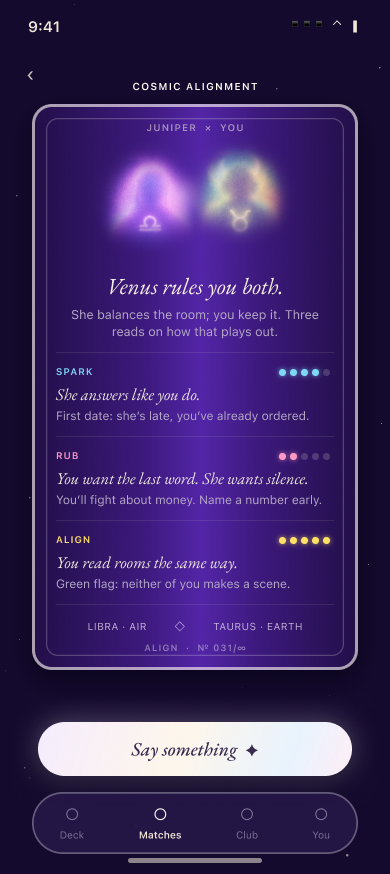
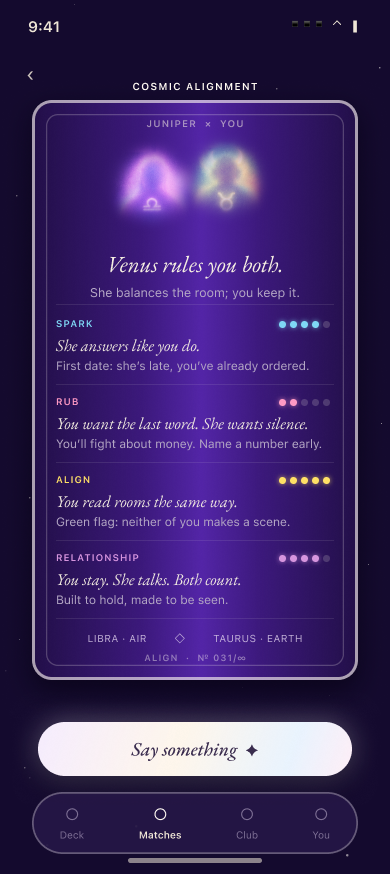
S-21 guide card: add the Relationship section, four reads in one card
Claude-Session: https://claude.ai/code/session_016YjMTARDAwfH7MsqGSPAVh

Changed region(s): [[0.0615, 0.0927, 0.9231, 0.8032]]

diff --git a/design/scores.md b/design/scores.md
@@ -286,19 +286,19 @@ Four cuts in one evening. The founder rejected a three-frame long read
 ("too much reading"), a hand of seven read cards ("too complicated, make it
 fun"), and a loose stack of card + meters + pills ("no introduction,
 everything feels out of place"). The extra frames are deleted. S-21 is now
-**one card**, 326×566, in the deck card's language (foil rim, inner
+**one card**, 326×580, in the deck card's language (foil rim, inner
 keyline, serial), read top to bottom:
 
 1. eyebrow `JUNIPER × YOU`, the two auras melting;
 2. introduction — *Venus rules you both.* / She balances the room; you
-   keep it. Three reads on how that plays out.;
-3. three identical sections, `SPARK` `RUB` `ALIGN`: caps label with the
+   keep it.;
+3. four identical sections, `SPARK` `RUB` `ALIGN` `RELATIONSHIP`: caps label with the
    five-dot meter on the same line (deck-card colours `#7FD8F5` `#FF9AC4`
    `#FFE066`), an italic headline, one plain note — *She answers like you
    do.* / First date: she’s late, you’ve already ordered. — *You want the
    last word. She wants silence.* / You’ll fight about money. Name a number
    early. — *You read rooms the same way.* / Green flag: neither of you
-   makes a scene.;
+   makes a scene. — *You stay. She talks. Both count.* / Built to hold, made to be seen. (relationship, `#D695DE`);
 4. footer `LIBRA · AIR ◇ TAURUS · EARTH`, `ALIGN · № 031/∞`.
 
 Then the Say something button. The chat sheet S-09b links here.
